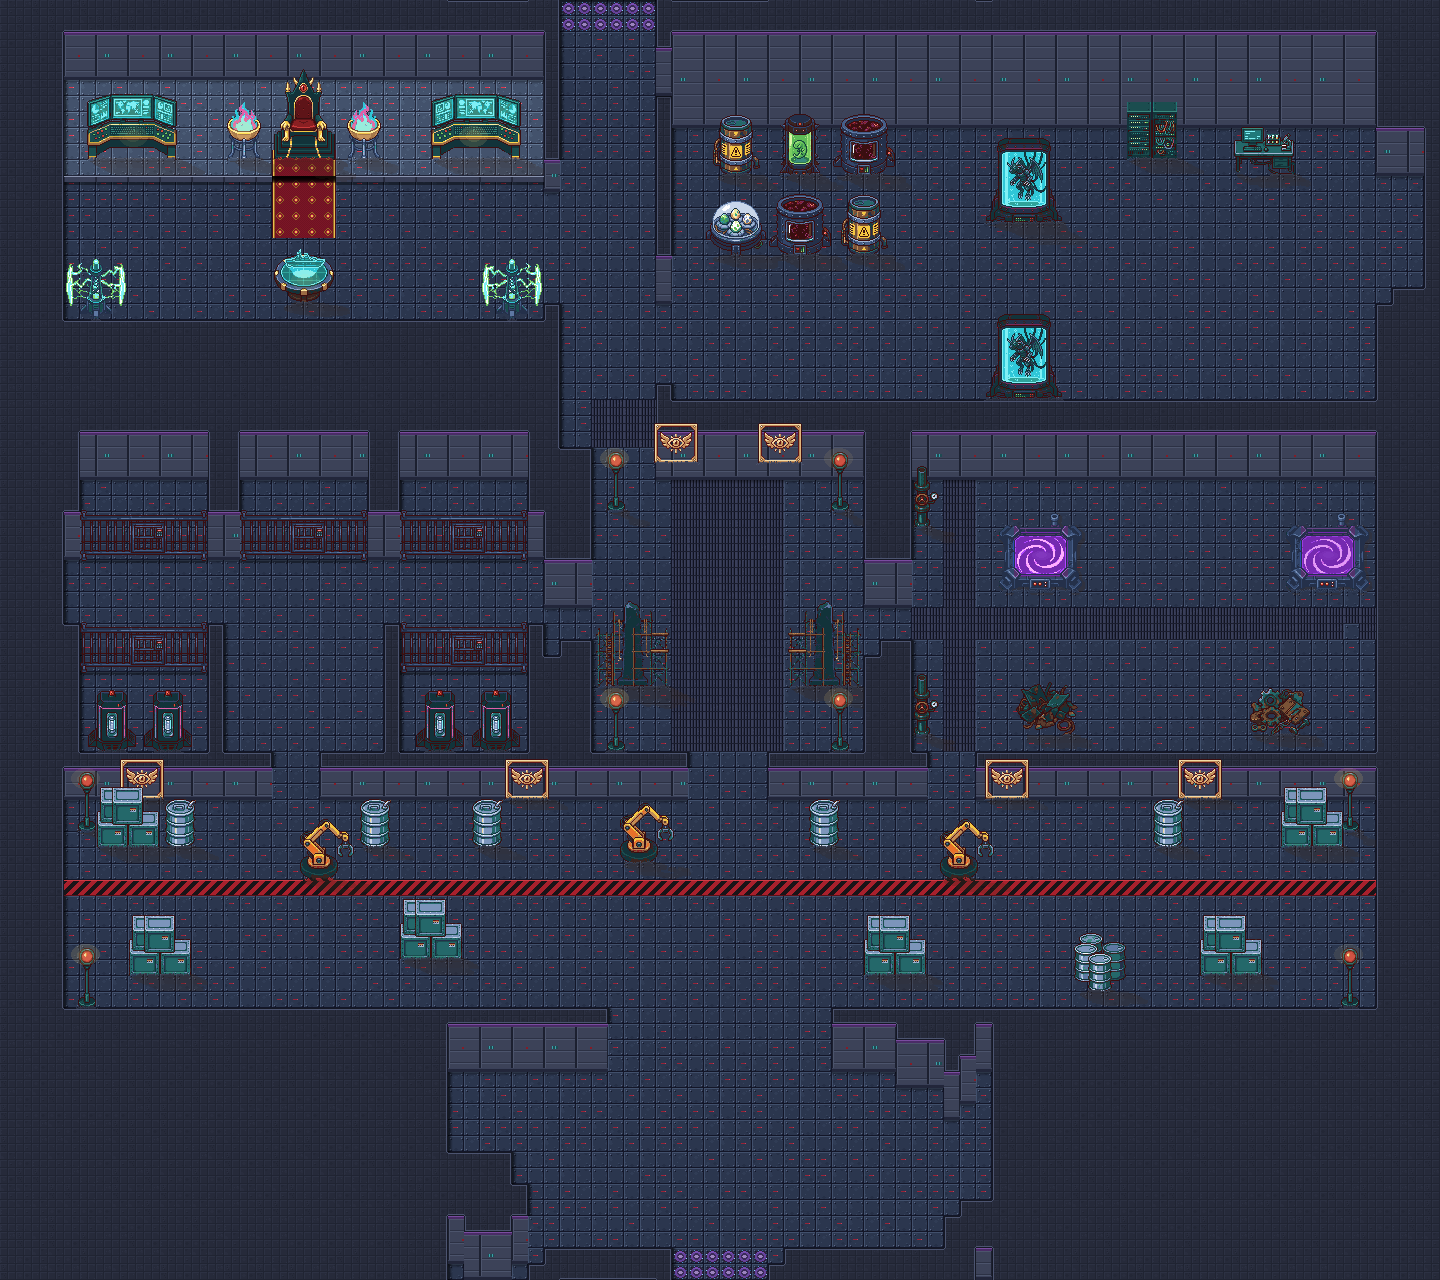
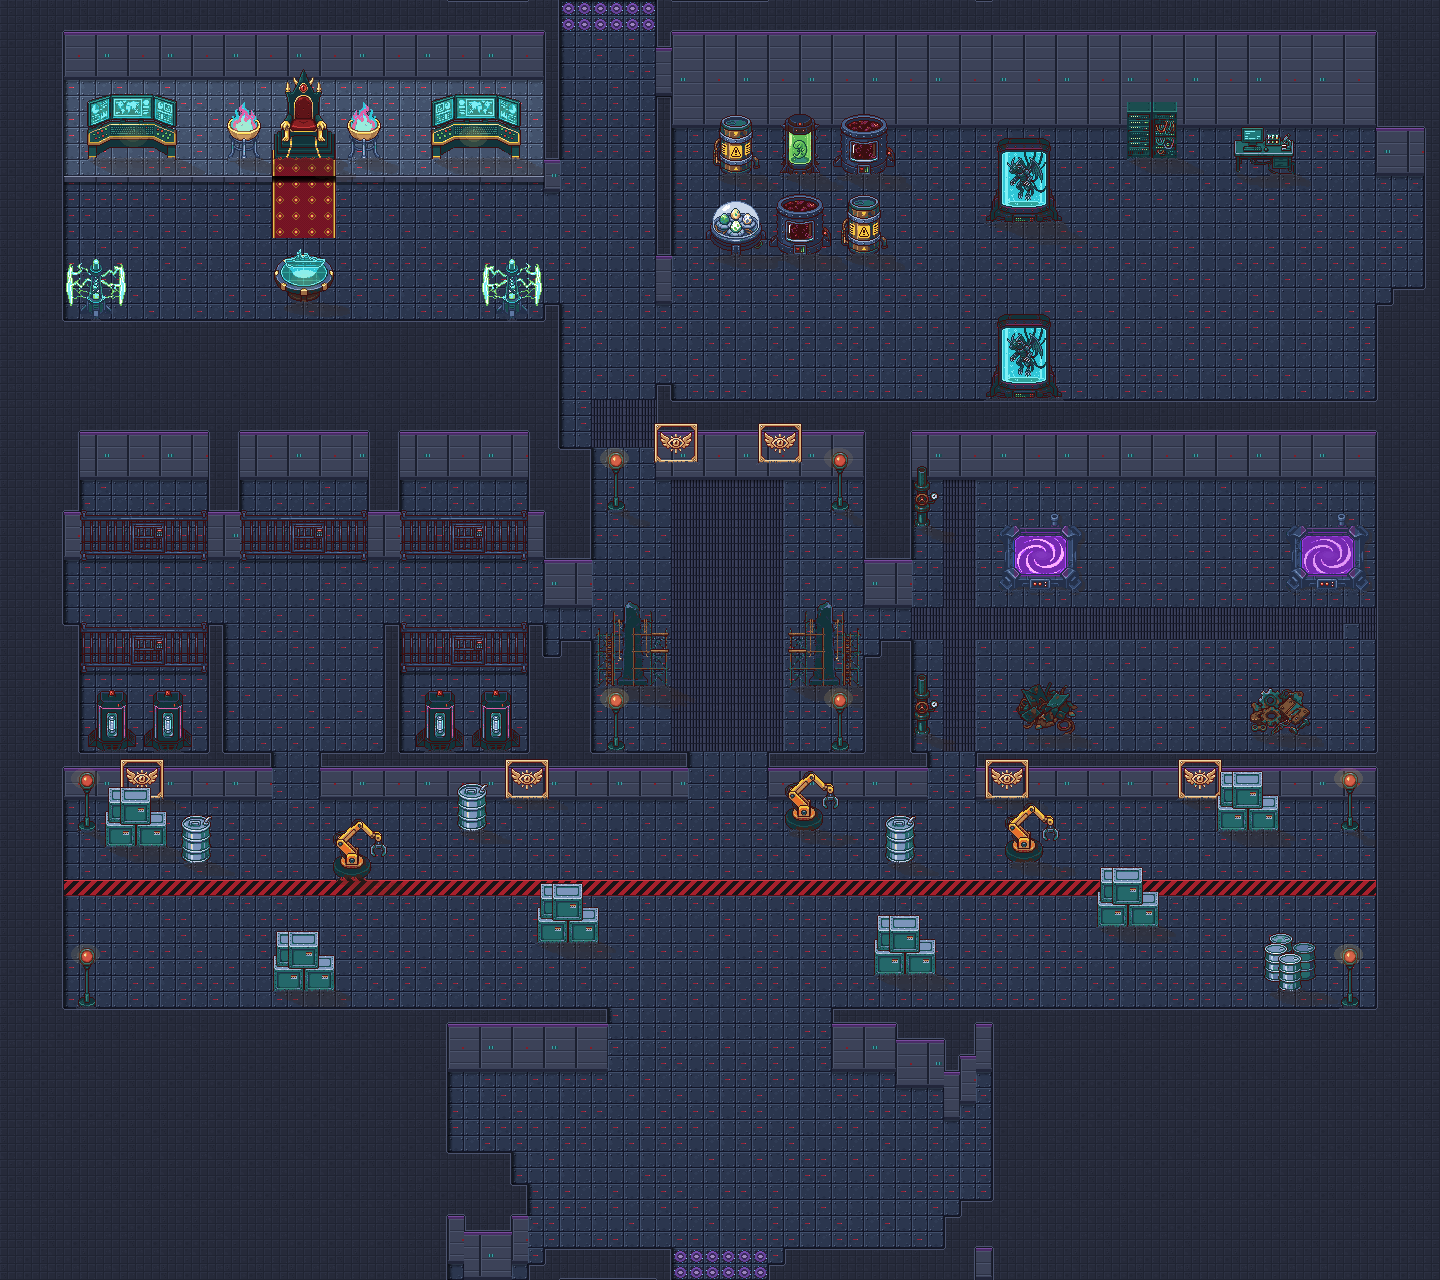
Karte 26: Halle - Objekte unregelmaessig verteilt, keine Reihen, Tuer frei
Claude-Session: https://claude.ai/code/session_01SaoYHKhnro4LFcPJqjaPsq

diff --git a/tools/karte26_objekte.py b/tools/karte26_objekte.py
@@ -73,12 +73,11 @@ HALLE = (                                                        # grosse Halle 
     [('raum/01', 49, {'px': x, 'wand': True}) for x in (142, 527, 1007, 1200)]               # Wandschilder (eigenes Abzeichen)
     + [('raum/00', 51, {'px': 87, 'anim': 'lampe'}), ('raum/00', 62, {'px': 87, 'anim': 'lampe'}),
        ('raum/00', 51, {'px': 1350, 'anim': 'lampe'}), ('raum/00', 62, {'px': 1350, 'anim': 'lampe'})]
-    + [(KISTEN, 52, {'px': 128}), (KISTEN, 60, {'px': 160}), (KISTEN, 59, {'px': 431}),
-       (KISTEN, 60, {'px': 895}), (KISTEN, 52, {'px': 1312}), (KISTEN, 60, {'px': 1231})]
-    + [(KANISTER, 52, {'px': 180}), (KANISTER, 52, {'px': 375}), (KANISTER, 52, {'px': 487}),
-       (KANISTER, 52, {'px': 824}), (KANISTER, 52, {'px': 1168})]
-    + [(LADEROBOTER, 54, {'px': 327}), (LADEROBOTER, 53, {'px': 647}), (LADEROBOTER, 54, {'px': 967})]
-    + [(FAESSER2, 61, {'px': 1100})]
+    + [(KISTEN, 52, {'px': 136}), (KISTEN, 61, {'px': 304}), (KISTEN, 58, {'px': 568}),
+       (KISTEN, 60, {'px': 905}), (KISTEN, 51, {'px': 1248}), (KISTEN, 57, {'px': 1128})]      # unregelmaessig (Nutzer)
+    + [(KANISTER, 53, {'px': 196}), (KANISTER, 51, {'px': 472}), (KANISTER, 53, {'px': 900})]
+    + [(LADEROBOTER, 54, {'px': 360}), (LADEROBOTER, 51, {'px': 812}), (LADEROBOTER, 53, {'px': 1032})]
+    + [(FAESSER2, 61, {'px': 1290})]
 )
 
 
